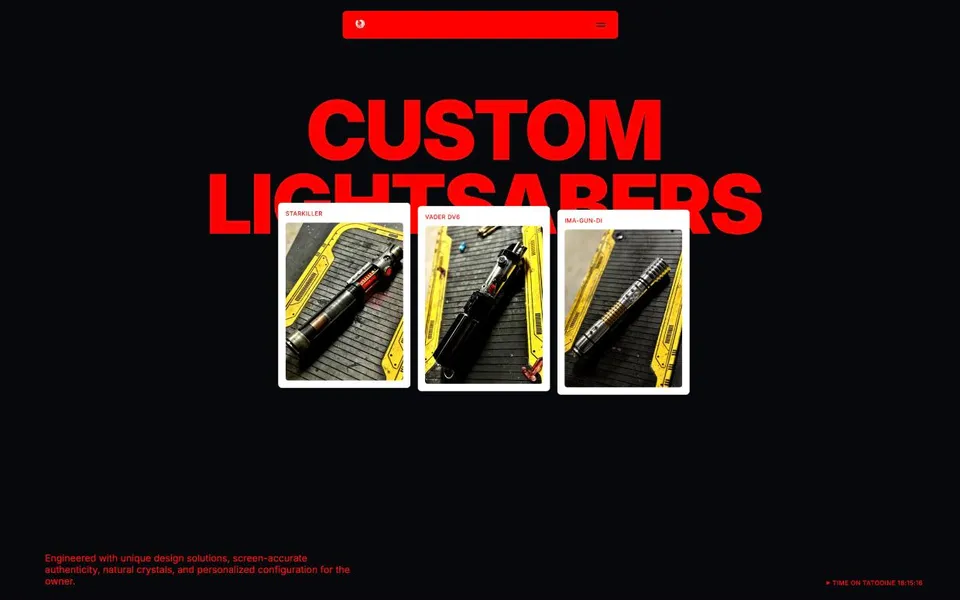
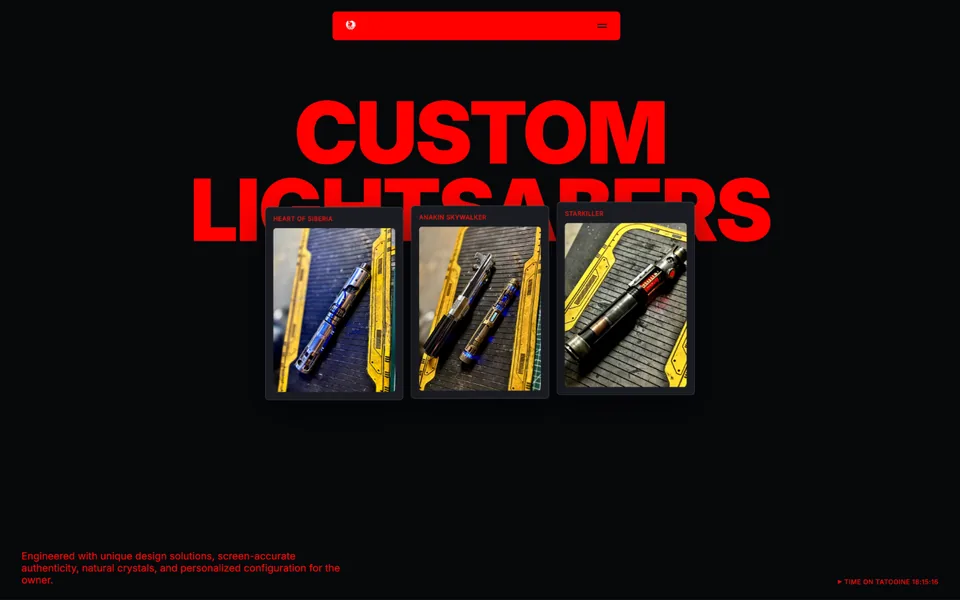
Saber: новые мечи на главной (#6)
* Saber hero: Heart of Siberia, Anakin Skywalker, Starkiller

Claude-Session: https://claude.ai/code/session_01PLuddEg5igSqvxqkapvstM

* Portal: new Saber preview with updated hero swords

Claude-Session: https://claude.ai/code/session_01PLuddEg5igSqvxqkapvstM

---------

diff --git a/index.html b/index.html
@@ -171,33 +171,33 @@
         </div>
       </div>
       <div class="hero-cards">
-        <a class="card" id="hero-card-1" href="https://catalog.raven-custom-saber.com/19?lang=ru" aria-label="Starkiller">
+        <a class="card" id="hero-card-1" href="https://catalog.raven-custom-saber.com/24?lang=ru" aria-label="Heart of Siberia">
+          <div class="hero-card-inner">
+            <div class="card-title">
+              <p class="mono">Heart of Siberia</p>
+            </div>
+            <div class="hero-model-image-wrap">
+              <img src="/hero-models/heart-of-siberia.jpg" alt="Heart of Siberia lightsaber" />
+            </div>
+          </div>
+        </a>
+        <a class="card" id="hero-card-2" href="https://catalog.raven-custom-saber.com/22?lang=ru" aria-label="Anakin Skywalker">
+          <div class="hero-card-inner">
+            <div class="card-title">
+              <p class="mono">Anakin Skywalker</p>
+            </div>
+            <div class="hero-model-image-wrap">
+              <img src="/hero-models/anakin-episode-3.jpg" alt="Anakin Skywalker Episode III lightsaber" />
+            </div>
+          </div>
+        </a>
+        <a class="card" id="hero-card-3" href="https://catalog.raven-custom-saber.com/19?lang=ru" aria-label="Starkiller">
           <div class="hero-card-inner">
             <div class="card-title">
               <p class="mono">Starkiller</p>
             </div>
             <div class="hero-model-image-wrap">
-              <img src="/hero-models/revan-battle-damage.png" alt="Revan Battle Damage lightsaber" />
-            </div>
-          </div>
-        </a>
-        <a class="card" id="hero-card-2" href="https://catalog.raven-custom-saber.com/15?lang=ru" aria-label="Vader DV6">
-          <div class="hero-card-inner">
-            <div class="card-title">
-              <p class="mono">Vader DV6</p>
-            </div>
-            <div class="hero-model-image-wrap">
-              <img src="/hero-models/vader-dv6.png" alt="Vader DV6 lightsaber" />
-            </div>
-          </div>
-        </a>
-        <a class="card" id="hero-card-3" href="https://catalog.raven-custom-saber.com/18?lang=ru" aria-label="Ima-Gun-Di">
-          <div class="hero-card-inner">
-            <div class="card-title">
-              <p class="mono">Ima-Gun-Di</p>
-            </div>
-            <div class="hero-model-image-wrap">
-              <img src="/hero-models/anakin-mustafar-edition.png" alt="Anakin Mustafar edition lightsaber" />
+              <img src="/hero-models/revan-battle-damage.png" alt="Starkiller lightsaber" />
             </div>
           </div>
         </a>

diff --git a/public/portal/index.html b/public/portal/index.html
@@ -349,7 +349,7 @@ html[lang=en] .ai-main .lead .nw{white-space:normal}
       </div>
       <div class="dirs">
         <a class="dir reveal" href="https://raven-custom-saber.com/">
-          <div class="dir-vis"><img src="/portal/previews/saber-en.webp" data-ru="/portal/previews/saber-ru.webp" alt="Saber" loading="lazy" width="960" height="600"></div>
+          <div class="dir-vis"><img src="/portal/previews/saber-en.webp?v=2" data-ru="/portal/previews/saber-ru.webp?v=2" alt="Saber" loading="lazy" width="960" height="600"></div>
           <div class="dir-text"><h3>Saber</h3><p>Кастомные световые мечи ручной сборки: Neopixel-клинок, свой звук и&nbsp;дизайн под владельца.</p></div>
         </a>
         <a class="dir reveal d1" href="https://raven-custom-atlas.com/">
